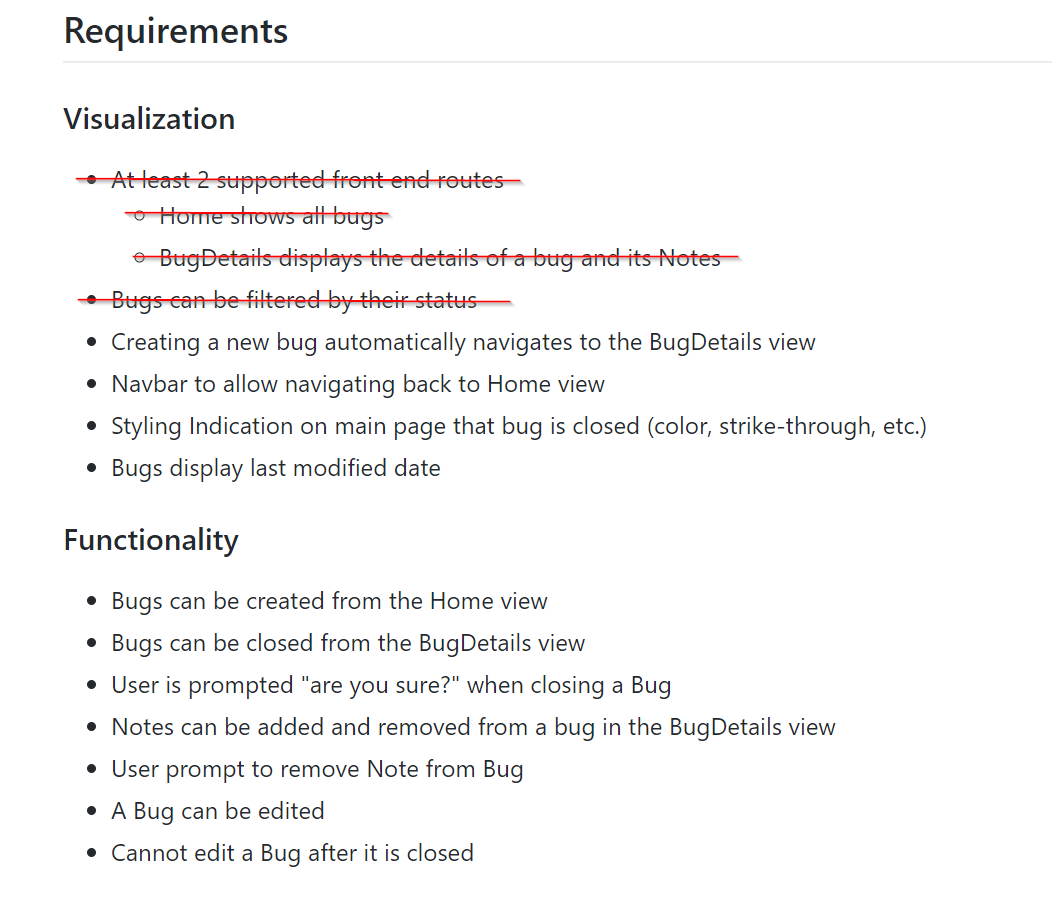
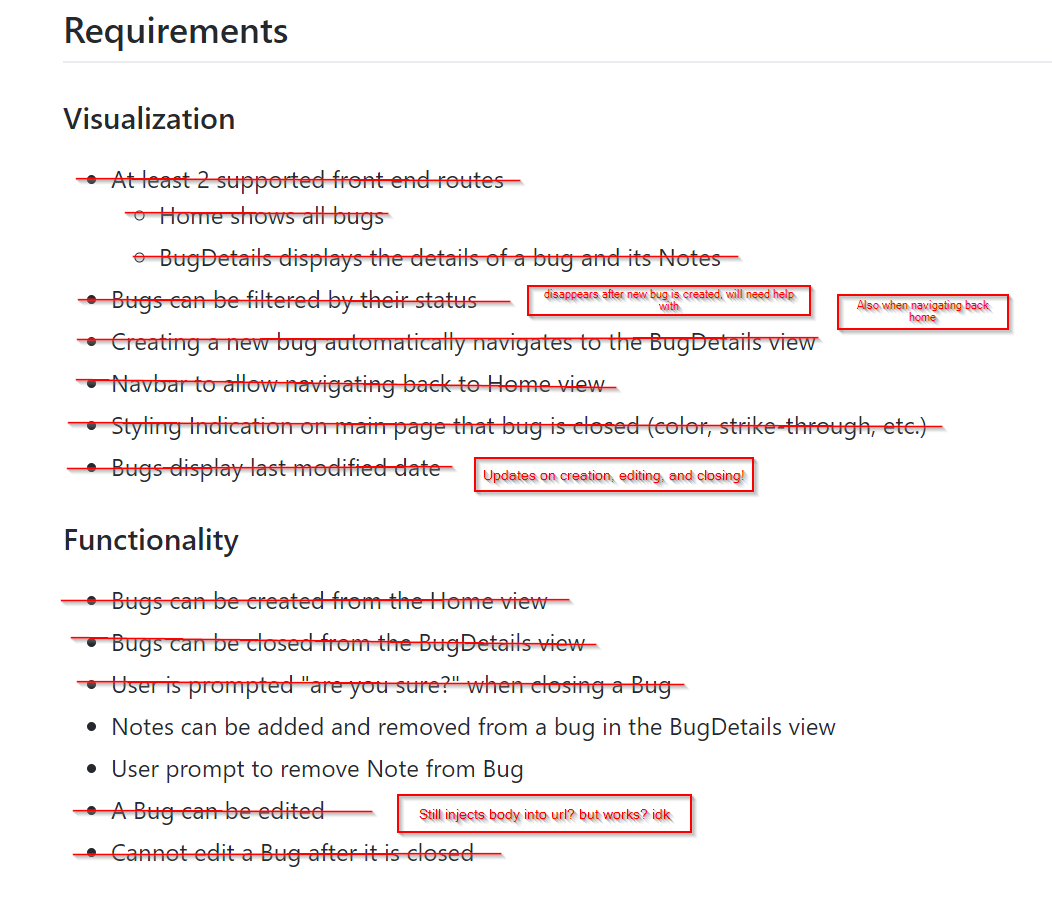
added nav bar and conditional formatting, as well as modifiedDate

diff --git a/client/src/views/Bug.vue b/client/src/views/Bug.vue
@@ -1,6 +1,6 @@
 <template>
   <div class="bug container-fluid">
-    Bug Details
+    <h4>Bug Details</h4>
     <br />
     Title: {{ bug.title }}
     <br />
@@ -8,8 +8,43 @@
     <br />
     Reported By: {{ bug.reportedBy }}
     <br />
+    Last modified on: {{ bug.modifiedDate | formatDate }}
+    <br />
     Closed Status: {{ bug.closed }}
     <br />
+    <hr />
+    <br />
+    <h4>Edit the bug</h4>
+    <form @submit="editBug(bug)">
+      <div class="form-group">
+        <label for="title">Title</label>
+        <input
+          v-model="editedBug.title"
+          type="text"
+          name="title"
+          class="form-control"
+          placeholder="enter updated title"
+          required
+        />
+      </div>
+      <div class="form-group">
+        <label for="description">Description</label>
+        <input
+          v-model="editedBug.description"
+          type="text"
+          name="description"
+          class="form-control"
+          placeholder="enter updated description"
+          required
+        />
+      </div>
+      <button class="btn btn-info" type="submit">
+        Edit Bug
+      </button>
+    </form>
+    <button class="btn btn-danger" type="button" @click="closeBug">
+      Close Bug
+    </button>
   </div>
 </template>
 
@@ -19,13 +54,64 @@ export default {
   mounted() {
     this.$store.dispatch("getActiveBug", this.$route.params.id);
   },
+  data() {
+    return {
+      editedBug: {
+        title: "",
+        description: ""
+      }
+    };
+  },
+  methods: {
+    async closeBug() {
+      this.$swal({
+        title: "Are you sure?",
+        text: "You can't undo closing a bug",
+        type: "warning",
+        showCancelButton: true,
+        confirmButtonText: "Close the bug!",
+        cancelButtonText: "Keep the bug open",
+        showCloseButton: true,
+        showLoaderOnConfirm: true
+      }).then(result => {
+        if (result.value) {
+          this.$swal("Closed", "You successfully closed this bug", "success");
+          this.$store.dispatch("closeBug", this.$route.params.id);
+          this.$router.go(); // refreshes page?
+        } else {
+          this.$swal("Cancelled", "Your bug is still open", "info");
+        }
+      });
+    },
+    async editBug(bug) {
+      try {
+        // TODO try to call up active object, modify it, and pass it as the single parameter?
+        let formData = { ...this.editedBug };
+        // await this.$store.commit("editBug", this.$route.params.id, formData);
+        // console.log(formData);
+        // console.log(bug);
+        bug.title = formData.title;
+        bug.description = formData.description;
+        bug.modifiedDate = new Date();
+        console.log(bug);
+        // console.log(this.$route.params.id);
+        debugger;
+        await this.$store.dispatch("editBug", bug);
+      } catch (error) {
+        console.error(error);
+      }
+    }
+  },
   computed: {
     bug() {
       return this.$store.state.activeBug;
     }
   }
+  // components: {
+  //   title: null,
+  //   description: null
+  // }
 };
 </script>
 
-<style>
-</style>
+<style></style>

diff --git a/client/src/views/Home.vue b/client/src/views/Home.vue
@@ -60,17 +60,30 @@
           <thead>
             <tr>
               <th data-field="title">Title</th>
-              <th data-field="reportedBy" data-filter-control="select">Reported By</th>
-              <th data-field="closed" data-filter-control="select">Closed Status</th>
+              <th data-field="reportedBy" data-filter-control="select">
+                Reported By
+              </th>
+              <th data-field="closed" data-filter-control="select">
+                Closed Status
+              </th>
+              <th data-field="modifiedDate">
+                Modified Date
+              </th>
             </tr>
           </thead>
           <tbody>
             <tr v-for="bug in bugs" :key="bug._id">
               <td>
-                <router-link :to="{ name: 'bug', params: {id: bug._id}}">{{ bug.title }}</router-link>
+                <router-link :to="{ name: 'bug', params: { id: bug._id } }">{{
+                  bug.title
+                }}</router-link>
               </td>
-              <td>{{bug.reportedBy}}</td>
-              <td>{{bug.closed}}</td>
+              <td>{{ bug.reportedBy }}</td>
+              <td v-bind:class="{ 'text-danger': bug['closed'] }">
+                {{ bug.closed }}
+              </td>
+              <td>{{ bug.modifiedDate | formatDate }}</td>
+              <!-- <td>{{bug.closed}}</td> -->
             </tr>
           </tbody>
         </table>
@@ -119,6 +132,7 @@ export default {
   methods: {
     async createBug() {
       let bug = { ...this.newBug };
+      bug.modifiedDate = new Date();
       await this.$store.dispatch("createBug", bug); // the rest of the function was running before active bug was made
       this.newBug = {
         title: "",
@@ -128,7 +142,6 @@ export default {
         closedDate: ""
       };
       let myActiveBug = this.$store.state.activeBug;
-      console.log(myActiveBug);
       this.$router.push({ name: "bug", params: { id: myActiveBug._id } });
     }
   },

diff --git a/client/src/store/index.js b/client/src/store/index.js
@@ -40,6 +40,17 @@ export default new Vuex.Store({
       let res = await _myServer.post("bugs", bug);
       commit("addBug", res.data);
       commit("setActiveBug", res.data); // attempt to make new bug the active one
+    },
+    async closeBug({ commit, dispatch }, id) {
+      let res = await _myServer.delete("bugs/" + id);
+      // commit("closeBug", res.data) // Do I need anything here? Probably refreshing page. NOTE how do I accomplish this? by putting this.$router.go() in bug.vue > methods > closeBug of course
+      // commit("setActiveBug", res.data);
+      // this.$forceUpdate();
+    },
+    async editBug({ commit, dispatch }, updatedBug) {
+      debugger;
+      let res = await _myServer.put("bugs/" + updatedBug.id, updatedBug);
+      console.log(res);
     }
   },
   modules: {}

diff --git a/client/src/main.js b/client/src/main.js
@@ -1,12 +1,22 @@
-import Vue from 'vue'
-import App from './App.vue'
-import router from './router'
-import store from './store'
+import Vue from "vue";
+import App from "./App.vue";
+import router from "./router";
+import store from "./store";
+import VueSweetalert2 from "vue-sweetalert2";
+import moment from "moment";
 
-Vue.config.productionTip = false
+Vue.config.productionTip = false;
+Vue.use(VueSweetalert2);
+Vue.filter("formatDate", function(value) {
+  if (value) {
+    return moment(String(value)).format("MM/DD/YYYY hh:mm");
+  }
+});
 
 new Vue({
   router,
   store,
-  render: function (h) { return h(App) }
-}).$mount('#app')
+  render: function(h) {
+    return h(App);
+  }
+}).$mount("#app");

diff --git a/server/models/Bug.js b/server/models/Bug.js
@@ -8,7 +8,8 @@ var Bug = new Schema(
     description: { type: String, required: true },
     title: { type: String, required: true },
     reportedBy: { type: String, required: true }, //The provided name for who reported the bug
-    closedDate: { type: Date }
+    closedDate: { type: Date },
+    modifiedDate: { type: Date }
   },
   { timestamps: true, toJSON: { virtuals: true } }
 );

diff --git a/client/public/index.html b/client/public/index.html
@@ -48,5 +48,6 @@
     ></script>
     <script src="https://unpkg.com/bootstrap-table@1.15.5/dist/bootstrap-table.min.js"></script>
     <script src="https://unpkg.com/bootstrap-table@1.15.5/dist/extensions/filter-control/bootstrap-table-filter-control.min.js"></script>
+    <script src="https://cdn.jsdelivr.net/npm/sweetalert2@9"></script>
   </body>
 </html>

diff --git a/client/src/App.vue b/client/src/App.vue
@@ -1,5 +1,8 @@
 <template>
   <div id="app">
+    <nav class="navbar navbar-expand-lg navbar-light bg-light">
+      <a class="navbar-brand" href="http://localhost:8080/#/">Home</a>
+    </nav>
     <!-- <div id="nav">
       <router-link to="/">Home</router-link>
       <router-link to="/about">About</router-link>

diff --git a/server/services/BugService.js b/server/services/BugService.js
@@ -8,7 +8,7 @@ class BugService {
   async delete(id) {
     let data = await _repository.findOneAndUpdate(
       { _id: id },
-      { closed: true }
+      { closed: true, modifiedDate: new Date() }
     );
     if (!data) {
       throw new ApiError("Invalid Id", 400);
